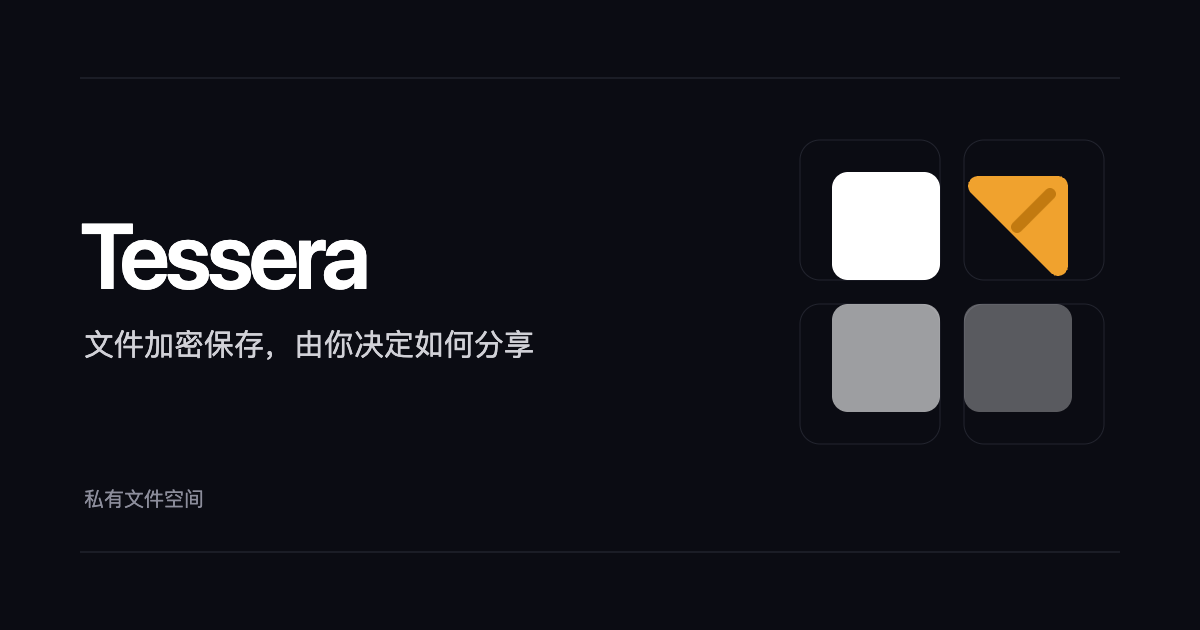
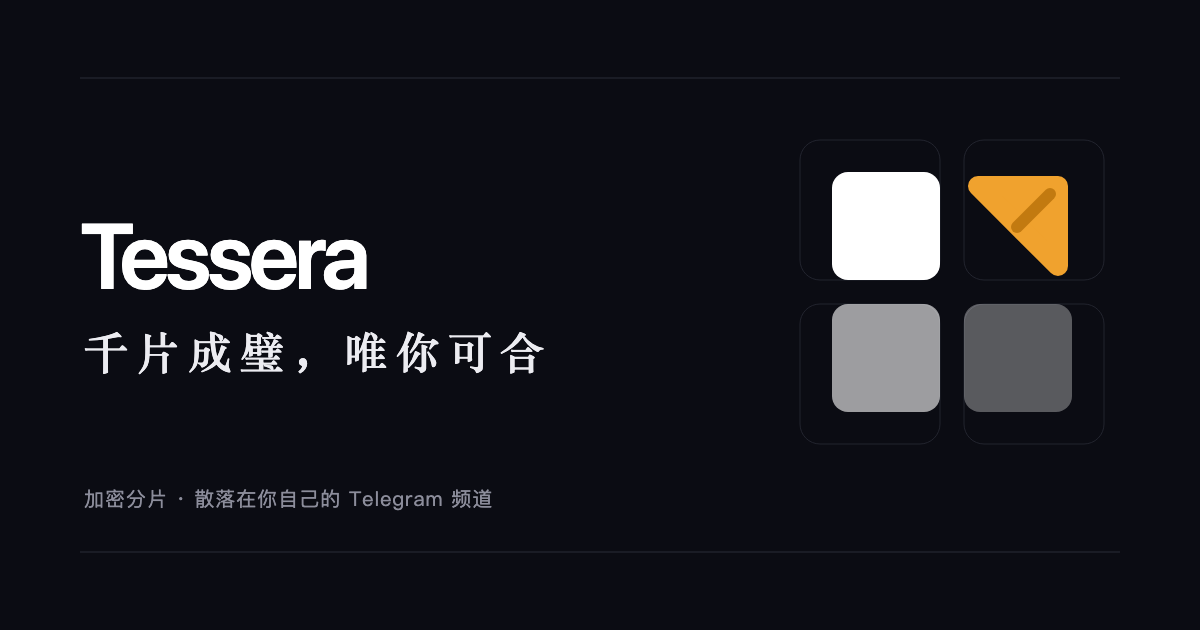
feat: 新增品牌标语「千片成璧，唯你可合」
- brand.ts 新增 TAGLINE 与 STORY，build-apps.mjs 从中读取并生成 OG／Twitter 标题与描述
- 侧栏、登录页、分享页以宋体展示标语，登录页视觉区改用标语与说明
- 重新生成链接预览封面卡片
- 同步 AGENTS.md、DESIGN.md 与 CHANGELOG

Changed region(s): [[0.0617, 0.5127, 0.4625, 0.6032], [0.0617, 0.754, 0.4317, 0.8143]]

diff --git a/web/src/styles.css b/web/src/styles.css
@@ -110,6 +110,8 @@
   --font: -apple-system, BlinkMacSystemFont, "SF Pro Text", "PingFang SC", "Hiragino Sans GB", "Noto Sans SC", "Microsoft YaHei", "Segoe UI", system-ui, sans-serif;
   --font-display: -apple-system, BlinkMacSystemFont, "SF Pro Display", "PingFang SC", "Hiragino Sans GB", "Noto Sans SC", "Microsoft YaHei", "Segoe UI", system-ui, sans-serif;
   --font-mono: ui-monospace, "SF Mono", "JetBrains Mono", Menlo, Consolas, monospace;
+  /* 品牌标语用系统自带的宋体，营造书卷气；不加载外部字体。 */
+  --font-serif: "Songti SC", "STSong", "Noto Serif CJK SC", "Source Han Serif SC", "SimSun", serif;
 
   /* 字号阶梯：界面只用这几档，不写半像素或零散字号（文档站正文另有阅读字号）。 */
   --text-micro: 11px;
@@ -342,6 +344,9 @@ html[data-input="pointer"] :focus-visible:not(input, textarea, select) { outline
 
 .brand { display: inline-flex; align-items: center; gap: 10px; color: var(--ink); }
 .brand-name { font-family: var(--font-display); font-size: var(--text-lg); font-weight: 600; letter-spacing: -.02em; line-height: 1; }
+.brand-text { display: grid; gap: 6px; min-width: 0; }
+.brand-tagline { overflow: hidden; color: var(--ink-3); font-family: var(--font-serif); font-size: var(--text-micro); letter-spacing: .28em; line-height: 1; text-overflow: ellipsis; white-space: nowrap; }
+.brand.has-tagline:hover .brand-tagline { color: var(--ink-2); }
 .logo-bg { fill: var(--logo-bg); stroke: var(--logo-ring); }
 .logo-tile { fill: var(--logo-tile); }
 .logo-plane { fill: var(--logo-plane); stroke: var(--logo-plane); }
@@ -658,6 +663,9 @@ html[data-input="pointer"] .switch-input:focus-visible + .switch-track { outline
 @keyframes tile-in { from { opacity: 0; transform: scale(.5); } }
 .auth-visual-copy { display: grid; gap: 22px; max-width: 460px; }
 .auth-visual-copy h2 { margin: 0; font-family: var(--font-display); font-size: var(--text-display); font-weight: 600; letter-spacing: -.025em; line-height: 1.3; }
+.auth-motto { display: grid; gap: 14px; }
+.auth-motto h2 { font-family: var(--font-serif); font-weight: 600; letter-spacing: .14em; }
+.auth-motto p { margin: 0; color: rgba(255, 255, 255, .62); font-family: var(--font-serif); font-size: var(--text-md); letter-spacing: .04em; line-height: 1.9; }
 .auth-points { display: grid; gap: 14px; margin: 0; padding: 0; list-style: none; }
 .auth-points li { display: grid; grid-template-columns: 28px 1fr; gap: 12px; align-items: center; color: rgba(255, 255, 255, .7); font-size: var(--text-sm); line-height: 1.6; }
 .auth-points .icon-wrap { display: grid; width: 28px; height: 28px; place-items: center; border-radius: var(--radius-sm); background: rgba(255, 255, 255, .06); box-shadow: inset 0 0 0 1px rgba(255, 255, 255, .1); color: rgba(255, 255, 255, .9); }
@@ -1752,6 +1760,7 @@ kbd { padding: 1px 6px; border: 1px solid var(--line); border-bottom-width: 2px;
   .preview-video-host .art-control-pip, .preview-video-host .art-control-fullscreenWeb { display: none !important; }
   .auth-form-pane { padding: 24px; }
   .share-bar { padding: 0 16px; }
+  .share-bar .brand-tagline { display: none; }
   .share-main { padding: 24px 12px; }
   .share-head { flex-wrap: wrap; padding: 18px; }
   .share-actions { width: 100%; flex-wrap: wrap; }

diff --git a/web/src/shell.tsx b/web/src/shell.tsx
@@ -1,6 +1,6 @@
 /** 用户端与管理端共用的应用外壳、登录页和首次设置页。 */
 import { useEffect, useRef, useState, type FormEvent, type MouseEvent, type ReactNode } from "react";
-import { BRAND, SITE } from "./brand";
+import { BRAND, SITE, STORY, TAGLINE } from "./brand";
 import * as api from "./api";
 import { loginWithPasskey, passkeyUnavailable } from "./passkeys";
 import { Avatar, Brand, Button, Checkbox, Field, Icon, Menu, Segmented, Toaster, type IconName, type MenuItem } from "./ui";
@@ -39,7 +39,7 @@ export function AppShell<K extends string>({ groups, active, onNavigate, hrefFor
       <div className="drawer-scrim" onClick={() => setDrawer(false)} aria-hidden="true" />
       <aside className="sidebar" aria-label="主导航">
         <div className="sidebar-top">
-          <Brand />
+          <Brand tagline />
           <button type="button" className="icon-btn icon-btn-ghost icon-btn-sm sidebar-close" aria-label="关闭导航" onClick={() => setDrawer(false)}><Icon name="x" size={16} /></button>
         </div>
         {workspaces.length > 1 && <div className="workspace-switch"><Segmented label="工作区" showLabels value={currentWorkspace.label!} options={workspaces.map(group => ({ value: group.label!, label: group.label!, icon: group.icon }))} onChange={label => {
@@ -112,7 +112,10 @@ function AuthHero({ admin }: { admin: boolean }) {
         {MOSAIC.map((tile, index) => <i key={index} className={tile.tone} style={{ animationDelay: `${tile.delay}ms` }} />)}
       </div>
       <div className="auth-visual-copy">
-        <h2>{admin ? "几分钟，搭好你的私人云盘" : "把文件放在一个只属于你的地方"}</h2>
+        {admin ? <h2>几分钟，搭好你的私人云盘</h2> : <div className="auth-motto">
+          <h2>{TAGLINE}</h2>
+          <p>{STORY}</p>
+        </div>}
         <ul className="auth-points">
           {points.map(point => <li key={point.icon}><span className="icon-wrap" aria-hidden="true"><Icon name={point.icon} size={16} /></span><span>{point.text}</span></li>)}
         </ul>
@@ -125,7 +128,7 @@ export function AuthLayout({ admin, title, description, children, footer }: { ad
   return (
     <div className={`auth ${admin ? "auth-admin" : "auth-user"}`}>
       <div className="auth-form-pane">
-        <Brand />
+        <Brand tagline />
         <div className="auth-form-wrap">
           <h1>{title}</h1>
           <p className="auth-description">{description}</p>

diff --git a/web/src/ui.tsx b/web/src/ui.tsx
@@ -1,7 +1,7 @@
 /** Tessera 设计系统基元：所有页面只通过这里的组件表达按钮、表单、浮层和反馈。 */
 import { Children, Fragment, cloneElement, isValidElement, useEffect, useId, useLayoutEffect, useRef, useState, type ButtonHTMLAttributes, type KeyboardEventHandler, type PointerEvent as ReactPointerEvent, type ReactNode } from "react";
 import { createPortal } from "react-dom";
-import { BRAND } from "./brand";
+import { BRAND, TAGLINE } from "./brand";
 import { FILE_PAGE_SIZES } from "./pagination";
 
 /* ---------- 图标 ---------- */
@@ -116,11 +116,11 @@ export function LogoMark({ size = 24 }: { size?: number }) {
   );
 }
 
-export function Brand({ href = "/", suffix }: { href?: string; suffix?: string }) {
+export function Brand({ href = "/", suffix, tagline = false }: { href?: string; suffix?: string; /** 在名称下方显示品牌标语 */ tagline?: boolean }) {
   return (
-    <a className="brand" href={href} aria-label={`${BRAND} 首页`}>
+    <a className={`brand${tagline ? " has-tagline" : ""}`} href={href} aria-label={`${BRAND} 首页`}>
       <LogoMark />
-      <span className="brand-name">{BRAND}</span>
+      {tagline ? <span className="brand-text"><span className="brand-name">{BRAND}</span><span className="brand-tagline">{TAGLINE}</span></span> : <span className="brand-name">{BRAND}</span>}
       {suffix && <span className="brand-suffix">{suffix}</span>}
     </a>
   );

diff --git a/web/src/brand.ts b/web/src/brand.ts
@@ -1,4 +1,7 @@
 /** 产品名称与页面标题的唯一来源：改名只需要改这里（技术标识如命令行 tgdrive、环境变量 TGDRIVE_* 不属于品牌，保持不变）。 */
 export const BRAND = "Tessera";
-export const TAGLINE = "加密分片的私人云盘";
+/** 品牌标语：侧栏、登录页、分享页与链接预览（og:title）共用；build-apps.mjs 从这里读取，不要改成模板字符串。 */
+export const TAGLINE = "千片成璧，唯你可合";
+/** 标语的展开说明：登录页与链接预览描述（og:description）。 */
+export const STORY = "每个文件都被加密、切成碎片，散落在你自己的 Telegram 频道；只有你的钥匙，能把它们重新拼合完整。";
 export const SITE = { user: BRAND, admin: `${BRAND} 控制台`, docs: `${BRAND} 文档` } as const;

diff --git a/web/src/share.tsx b/web/src/share.tsx
@@ -72,7 +72,7 @@ export function SharePage({ token }: { token: string }) {
   return (
     <div className="share-page">
       <header className="share-bar">
-        <Brand />
+        <Brand tagline />
         <span className="share-bar-note"><Icon name="globe" size={15} />公开分享</span>
       </header>
       <main className="share-main">

diff --git a/AGENTS.md b/AGENTS.md
@@ -1,6 +1,6 @@
 # AGENTS.md
 
-给 AI 代理的项目说明。产品对外名称是 **Tessera**（界面、文档、标题），`tgdrive` 只是仓库、Python 包、命令行、环境变量和镜像的技术名称，不要混用；改名只需改 `web/src/brand.ts` 与 `build-apps.mjs` 里的标题/图标。人类读者请先看 `README.md`。
+给 AI 代理的项目说明。产品对外名称是 **Tessera**（界面、文档、标题），`tgdrive` 只是仓库、Python 包、命令行、环境变量和镜像的技术名称，不要混用；改名只需改 `web/src/brand.ts`（`BRAND`、标语 `TAGLINE`、说明 `STORY`；`build-apps.mjs` 用正则从这里读取三者生成 `<title>` 与 OG／Twitter 元信息，所以必须保持 `export const 名称 = "…";` 的写法）与 `build-apps.mjs` 里的网页图标；链接预览封面是 `web/assets/social-card.svg` 渲染出的 `social-card.png`（1200×630，可用 Chrome headless 截图生成），文案变化时一起更新。人类读者请先看 `README.md`。
 
 ## 项目概览
 

diff --git a/CHANGELOG.md b/CHANGELOG.md
@@ -4,6 +4,10 @@
 
 ## [未发布]
 
+### 品牌
+
+- 新增品牌标语「千片成璧，唯你可合」：显示在侧栏、登录页与分享页，并用于 Telegram 等链接预览的标题、描述和封面卡片。
+
 ### 预览
 
 - 图片预览与小窗都可以拖动头部移动位置，正常窗口和最小化小窗分别记住位置。
